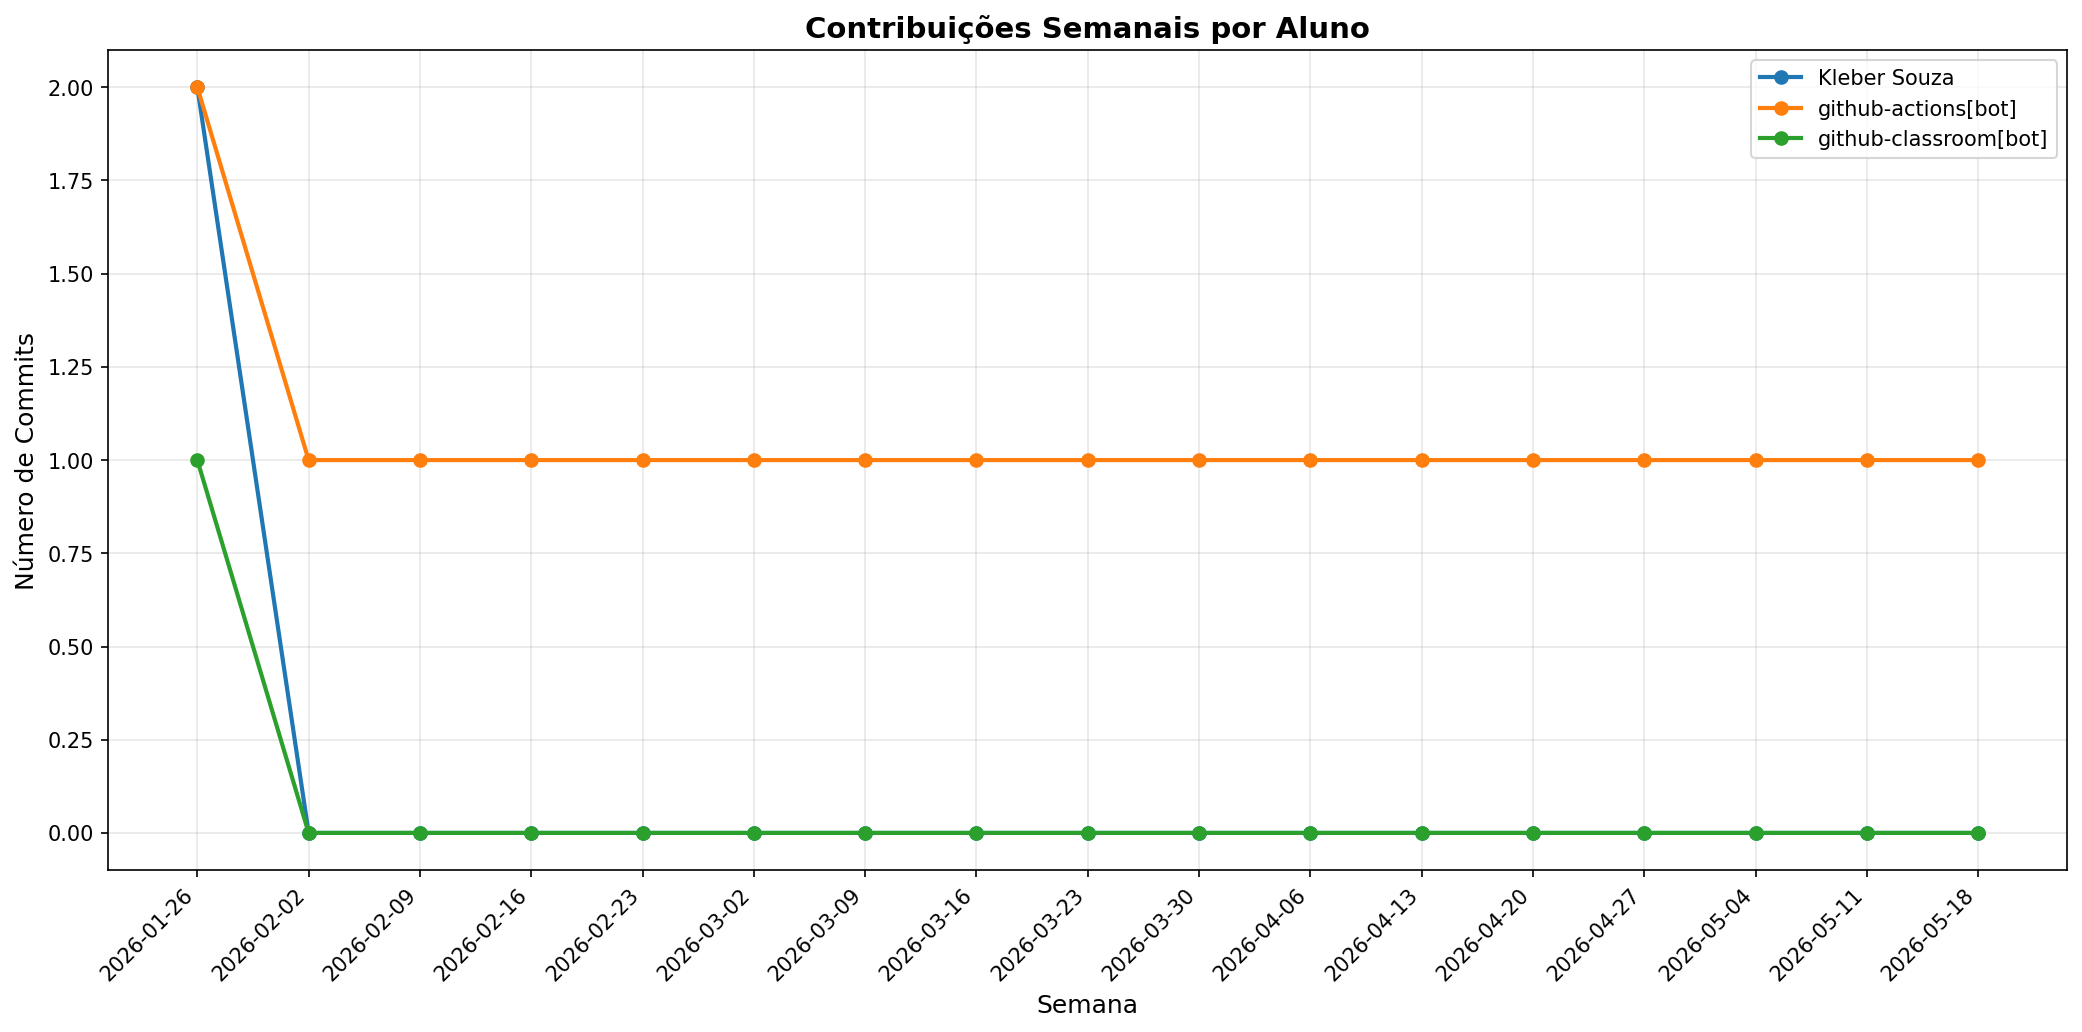
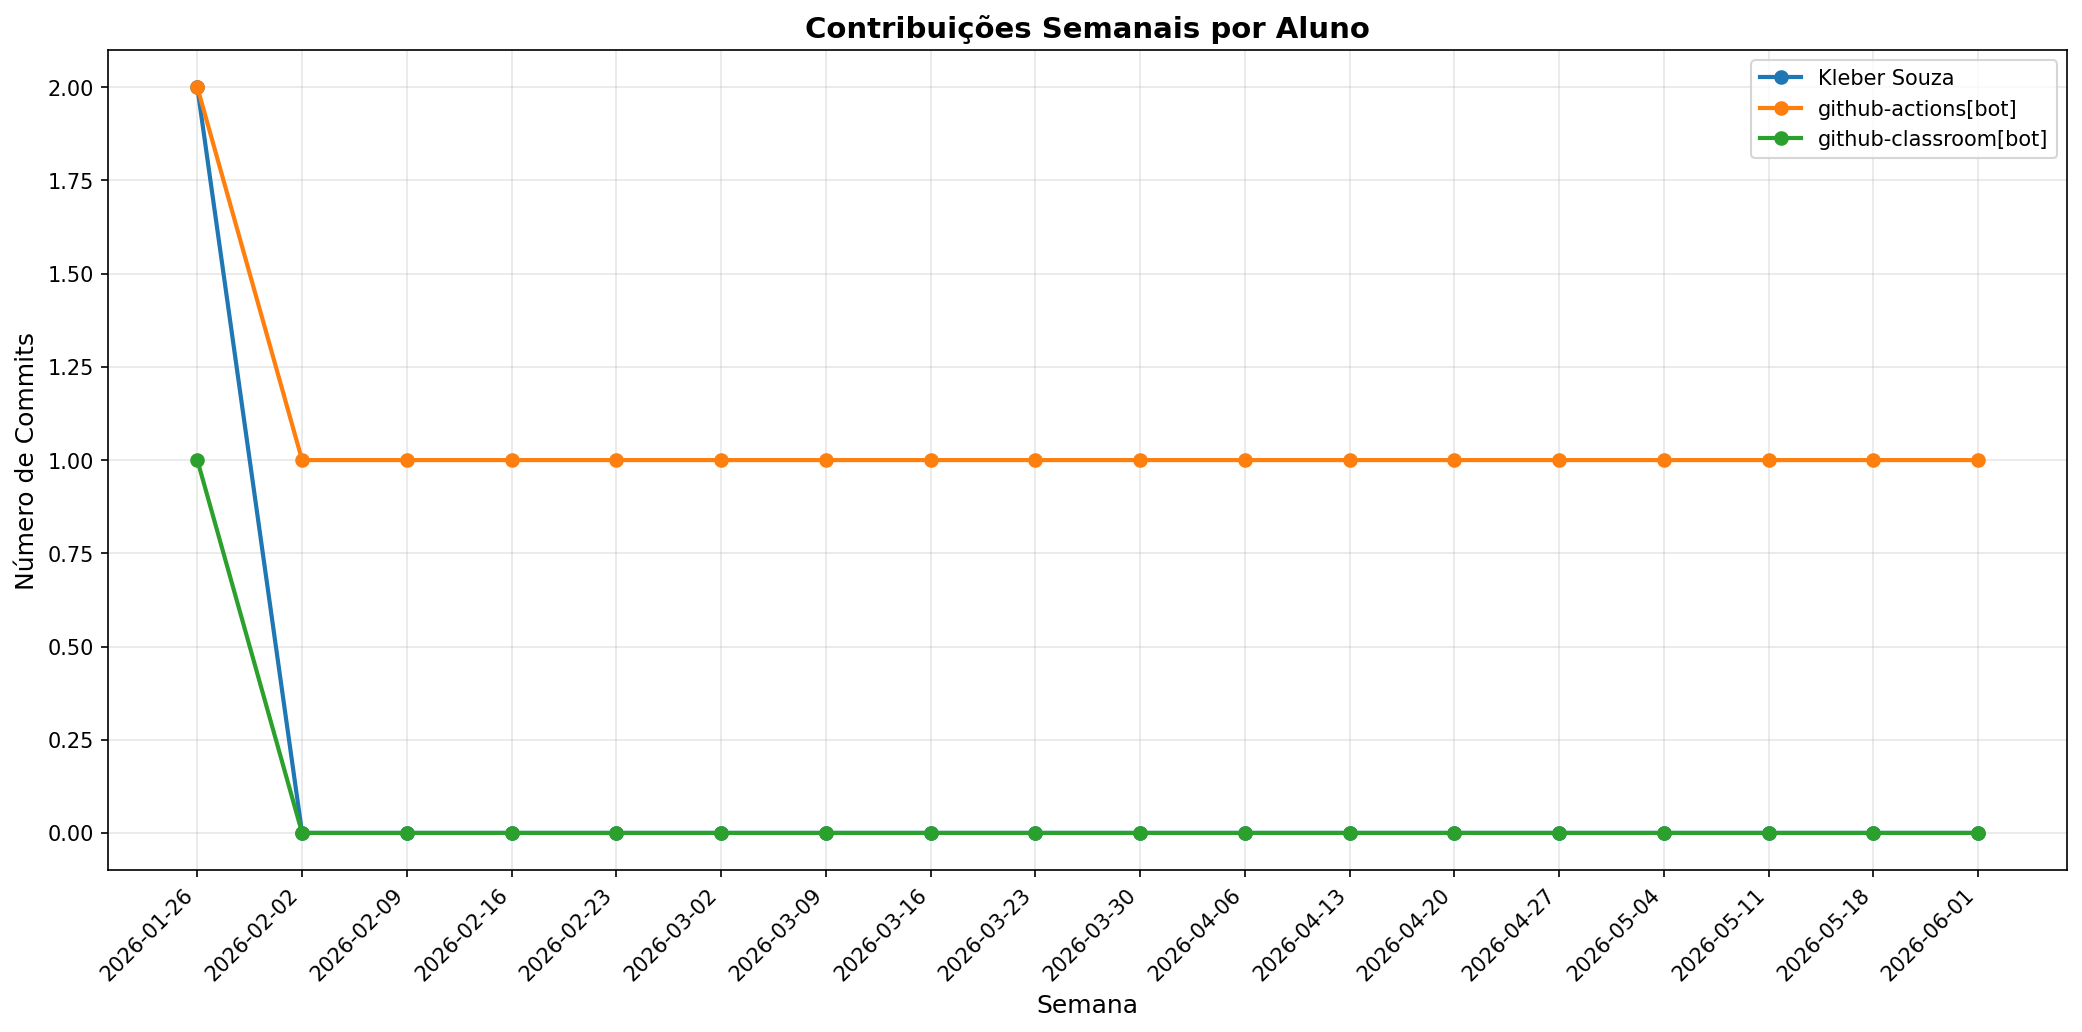
📊 Atualizar relatório de contribuições [skip ci]

diff --git a/docs/CONTRIBUTION_REPORT.md b/docs/CONTRIBUTION_REPORT.md
@@ -1,6 +1,6 @@
 # 📊 Relatório de Contribuições do Projeto
 
-**Última atualização:** 01/06/2026 05:01
+**Última atualização:** 08/06/2026 04:49
 
 ---
 
@@ -9,11 +9,13 @@
 | Aluno                 |   Commits |   Linhas+ |   Linhas- |   Arquivos |   Docs Commits |   Docs Arquivos |
 |-----------------------|-----------|-----------|-----------|------------|----------------|-----------------|
 | Kleber Souza          |         2 |         2 |         2 |          2 |              2 |               2 |
-| github-actions[bot]   |        18 |        89 |        72 |          3 |             18 |               1 |
+| github-actions[bot]   |        19 |        93 |        74 |          3 |             19 |               1 |
 | github-classroom[bot] |         1 |      2291 |         0 |         45 |              1 |              13 |
 
 
 ## 📅 Contribuições Semanais (Todo o Semestre)
+
+**2026-06-01**: github-actions[bot]: 1
 
 **2026-05-18**: github-actions[bot]: 1
 
